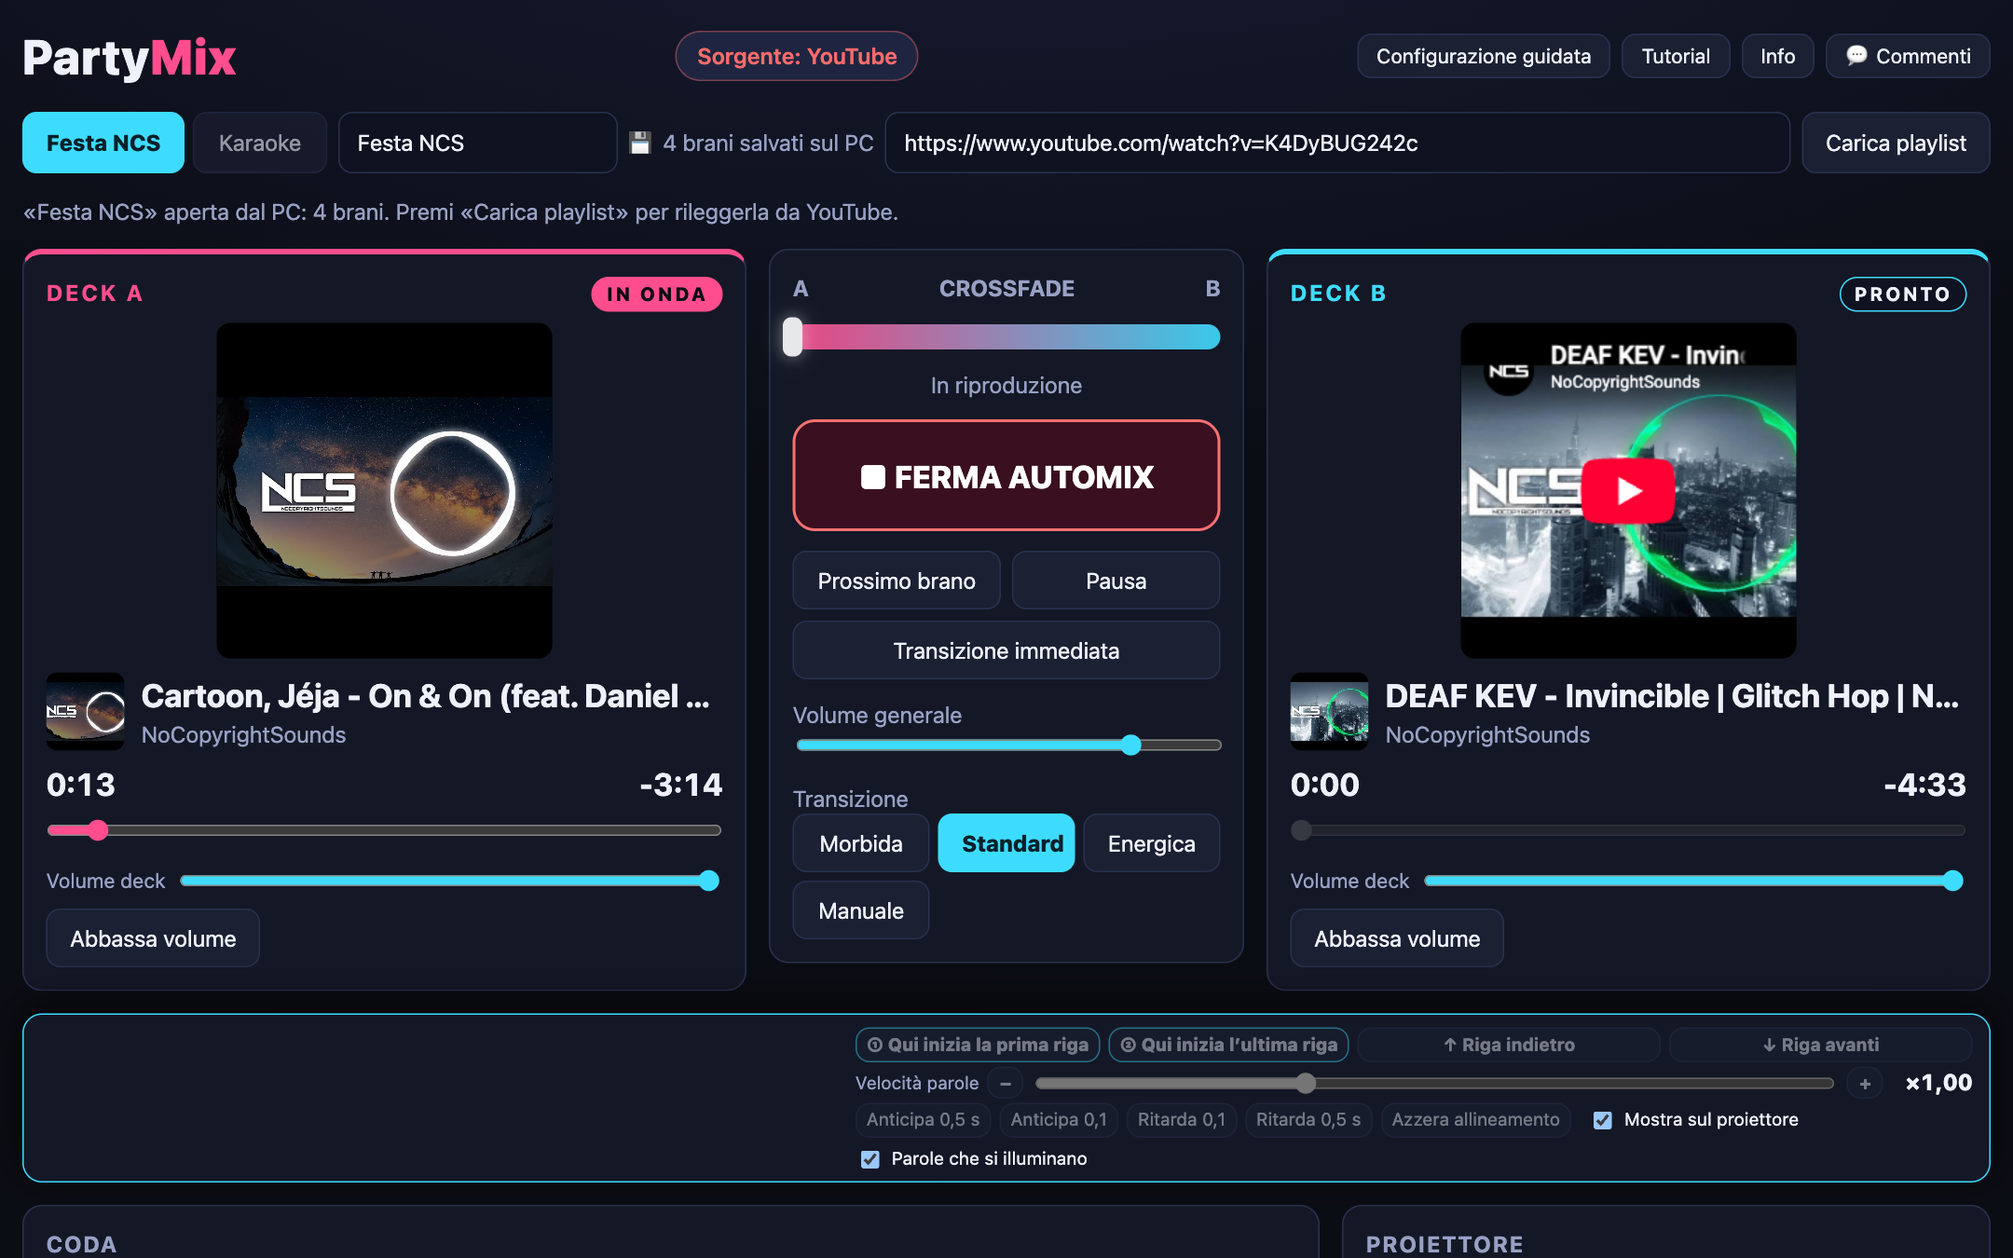
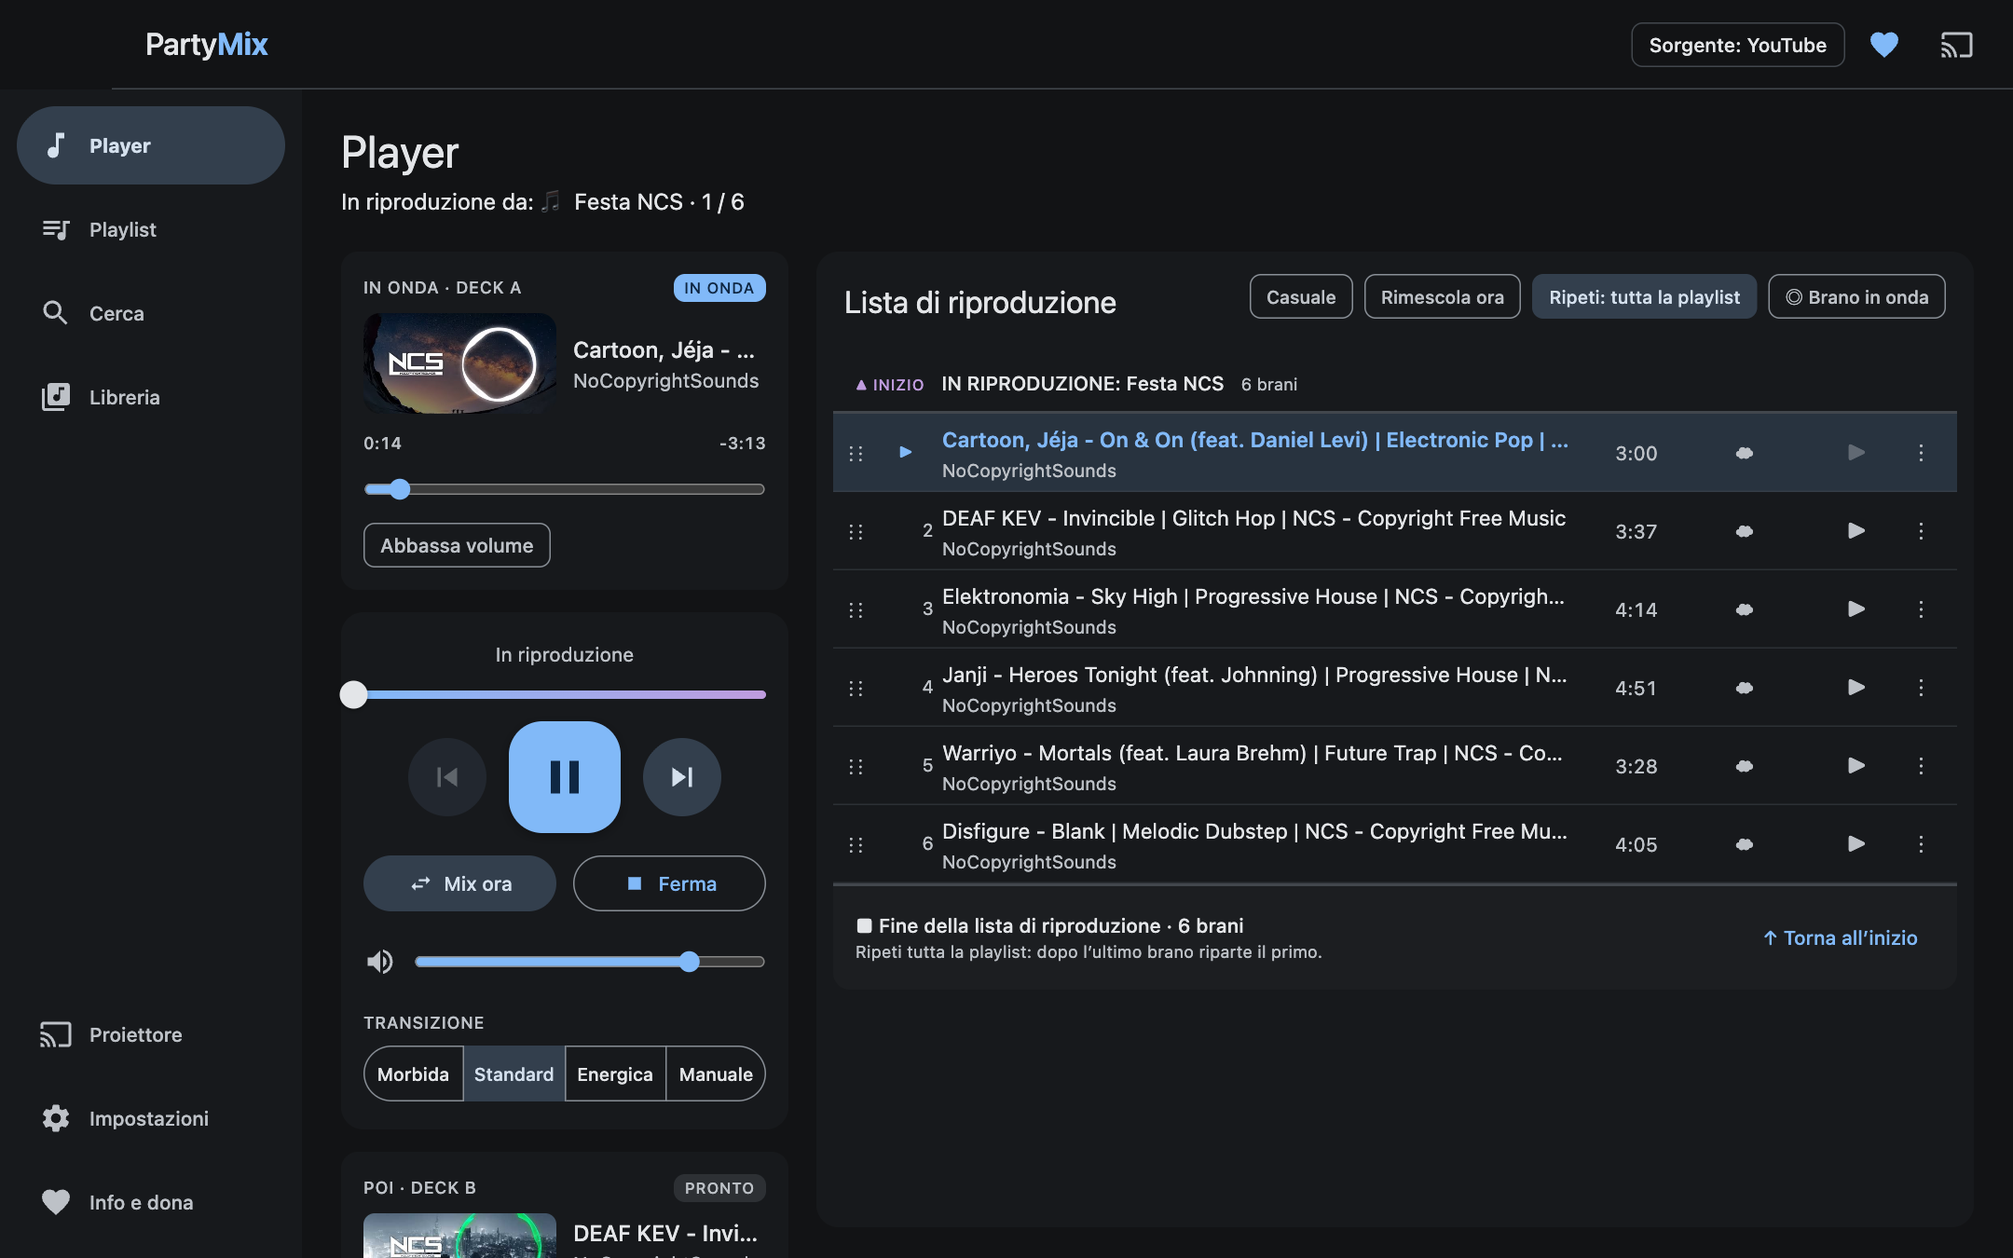
1.7.0: pannello «Proiettore e testo» sopra il Player, nuove schermate e guide
- Computer: «Proiettore» apre un pannello laterale Material sopra il Player (✕ o Esc per chiudere);
  sugli schermi larghi la pagina gli fa spazio
- Card dei deck: titoli lunghi con «…» dentro la card
- Nuove schermate della versione computer (Player, Playlist, Cerca, Libreria, Proiettore) in guida, README e sito

diff --git a/src/ui/console.ts b/src/ui/console.ts
@@ -8,7 +8,7 @@ import { UNAVAILABLE_WITH_YOUTUBE } from './unavailable';
 import { APP_VERSION, AUTHOR, PAYPAL_QR } from '../info';
 import { buildQueueList, QueueRowVM } from './queueList';
 import type { SheetItem as MenuItem } from './material';
-import { applyPhoneTheme, applySystemInsets, buildShell, materialUI, setLabel, SheetItem, withIcon } from './material';
+import { applyPhoneTheme, applySystemInsets, buildShell, icon, materialUI, setLabel, SheetItem, withIcon } from './material';
 
 export type Actions = {
   loadPlaylist(text: string): void;
@@ -341,7 +341,9 @@ export function buildConsole(root: HTMLElement, a: Actions, opts: { hasMusic?: b
   }
   /** Computer: the tour of the pages (each step opens its page). Set when the computer layout is built. */
   let deskTour: (() => TourStep[]) | undefined;
-  const openTutorial = () => void (md ? startTour(mdTourSteps(), (el) => shell?.reveal(el)) : deskTour ? startTour(deskTour(), (el) => shell?.reveal(el)) : startTour(tourSteps()));
+  /** Computer: «Proiettore e testo» in a side sheet over the Player (set when the computer layout is built). */
+  let projSheet: { open(): void; close(): void; toggle(): void } | undefined;
+  const openTutorial = () => void (md ? startTour(mdTourSteps(), (el) => shell?.reveal(el)) : deskTour ? startTour(deskTour(), (el) => { if (el.closest('.side-sheet')) projSheet?.open(); else { projSheet?.close(); shell?.reveal(el); } }) : startTour(tourSteps()));
   const openWizard = () => startWizard({
     loadPlaylist: (t) => a.loadPlaylist(t),
     onStatus: (fn) => { statusListeners.add(fn); fn(status.textContent ?? '', status.classList.contains('error')); return () => statusListeners.delete(fn); },
@@ -384,7 +386,7 @@ export function buildConsole(root: HTMLElement, a: Actions, opts: { hasMusic?: b
     h('button', { onClick: openTutorial }, 'Tutorial'),
     h('button', { onClick: openInfo }, 'Info'),
     h('button', { title: 'Scrivimi cosa ne pensi e cosa vorresti trovare in PartyMix', onClick: () => showFeedback() }, '💬 Commenti'));
-  const castTop = h('button', { class: 'm-icon-btn', 'aria-label': isIOSApp() ? 'Mostra il proiettore' : 'Trasmetti il proiettore alla TV', title: isIOSApp() ? 'Mostra il proiettore' : 'Trasmetti il proiettore alla TV', onClick: () => { shell?.go('proj'); void openProj(); } });
+  const castTop = h('button', { class: 'm-icon-btn', 'aria-label': isIOSApp() ? 'Mostra il proiettore' : 'Trasmetti il proiettore alla TV', title: isIOSApp() ? 'Mostra il proiettore' : 'Trasmetti il proiettore alla TV', onClick: () => { if (projSheet) projSheet.open(); else { shell?.go('proj'); void openProj(); } } });
   const helpItem = (ic: Parameters<typeof withIcon>[1], text: string, sub: string, run: () => void) =>
     h('button', { class: 'm-list-item', type: 'button', onClick: run }, withIcon(h('span', { class: 'm-lead' }), ic, true), h('span', { class: 'm-text' }, h('span', { class: 't' }, text), h('span', { class: 'm-sub' }, sub)));
   const helpPanel = h('section', { class: 'panel' }, h('h3', {}, 'Aiuto'),
@@ -533,12 +535,38 @@ export function buildConsole(root: HTMLElement, a: Actions, opts: { hasMusic?: b
         { id: 'search', label: 'Cerca', icon: 'search', body: [desk?.pages.search ?? null] },
         ...(desk?.pages.downloads ? [{ id: 'downloads', label: 'Download', icon: 'download' as const, body: [desk.pages.downloads] }] : []),
         { id: 'library', label: 'Libreria', icon: 'library', body: [desk?.pages.library ?? null] },
-        { id: 'proj', label: 'Proiettore', icon: 'cast', secondary: true, body: [ph('Proiettore e testo'), projPanel, syncBar, lyricsPanel] },
         { id: 'settings', label: 'Impostazioni', icon: 'settings', secondary: true, body: [ph('Impostazioni'), settingsGrid] },
         { id: 'about', label: 'Info e dona', icon: 'heart', secondary: true, body: [ph('Info e dona'), aboutPage] },
       ],
     });
     emptyNowRef = emptyNowDesk;
+
+    // «Proiettore e testo»: a Material side sheet from the right, over the Player (the music stays in sight and in hand).
+    // Wide screens: the page makes room for it; narrower ones: it lies over the right part. ✕ or Esc closes it.
+    const ssClose = withIcon(h('button', { class: 'm-icon-btn', 'aria-label': 'Chiudi', title: 'Chiudi (Esc)' }), 'close', true);
+    const sheetEl = h('aside', { class: 'side-sheet', role: 'complementary', 'aria-label': 'Proiettore e testo', inert: true },
+      h('div', { class: 'ss-head' }, h('h2', {}, 'Proiettore e testo'), ssClose),
+      h('div', { class: 'ss-body' }, projPanel, syncBar, lyricsPanel));
+    document.body.append(sheetEl);
+    projOpen.className = 'm-filled'; withIcon(projOpen, 'cast'); projClose.className = 'm-outlined'; withIcon(projClose, 'stop');
+    const projNav = h('button', { class: 'm-nav-item sec', type: 'button', title: 'Proiettore e testo', 'aria-expanded': 'false' },
+      h('span', { class: 'm-ind' }, icon('cast')), h('span', { class: 'm-nav-label' }, 'Proiettore'));
+    const navEl = root.querySelector('.m-nav')!;
+    navEl.insertBefore(projNav, navEl.querySelector('.m-nav-item.sec'));
+    const setOpen = (on: boolean) => {
+      sheetEl.classList.toggle('open', on);
+      sheetEl.toggleAttribute('inert', !on);
+      document.body.classList.toggle('ss-open', on);
+      projNav.classList.toggle('on', on);
+      projNav.setAttribute('aria-expanded', String(on));
+      if (on && shell?.current() !== 'now') shell?.go('now');
+    };
+    projSheet = { open: () => setOpen(true), close: () => setOpen(false), toggle: () => setOpen(!sheetEl.classList.contains('open')) };
+    projNav.addEventListener('click', () => projSheet!.toggle());
+    ssClose.addEventListener('click', () => projSheet!.close());
+    addEventListener('keydown', (e) => { if (e.key === 'Escape' && sheetEl.classList.contains('open') && !document.querySelector('.m-sheet.on, .modal, .tour-card')) projSheet!.close(); });
+    // the Player's own nav item does not look «current» while the sheet is the thing in front
+    shell.onScreen((id) => { if (id !== 'now') setOpen(false); });
   }
 
   /** ⋮ on a song of the play queue (computer): the actions that make sense for it, in its state. */

diff --git a/src/ui/desktop.css b/src/ui/desktop.css
@@ -369,3 +369,28 @@ body.md.desk .m-nav .m-nav-item.on { color: var(--md-on-secondary-container); }
   body.md.desk .m-nav .m-nav-item.on .m-nav-label { font-weight: 700; color: var(--md-on-surface); }
   body.md.desk .m-nav .m-nav-item:focus-visible .m-ind { box-shadow: 0 0 0 2px var(--md-primary); }
 }
+
+/* ===================== «Proiettore e testo»: side sheet over the Player ===================== */
+.desk .side-sheet { position: fixed; z-index: 25; top: 64px; right: 0; bottom: 0; width: min(440px, calc(100vw - var(--nav-w) - 24px));
+  display: flex; flex-direction: column; background: var(--md-surface-low); border-radius: 16px 0 0 16px;
+  box-shadow: -6px 0 24px rgb(0 0 0 / .35); transform: translateX(calc(100% + 24px)); transition: transform .25s cubic-bezier(.2, 0, 0, 1); }
+.desk .side-sheet.open { transform: none; }
+.desk .ss-head { display: flex; align-items: center; justify-content: space-between; gap: 8px; padding: 16px 12px 8px 24px; }
+.desk .ss-head h2 { margin: 0; font: 400 22px/28px Roboto, 'Google Sans', system-ui, sans-serif; }
+.desk .ss-body { flex: 1; overflow: auto; overscroll-behavior: contain; padding: 0 16px 24px; display: grid; gap: 16px; align-content: start; }
+.desk .ss-body .panel { background: var(--md-surface-c); margin: 0; }
+.desk .ss-body .syncbar { position: static; inset: auto; width: auto; max-height: none; margin: 0; border-radius: 16px; }
+.desk .ss-body .synctools .row { flex-wrap: wrap; }
+@media (min-width: 1500px) { body.desk.ss-open .m-main { margin-right: 440px; transition: margin-right .25s; } }
+@media (prefers-reduced-motion: reduce) { .desk .side-sheet { transition: none; } }
+
+.desk .ss-body .seg button { white-space: nowrap; }
+.desk .ss-body .btns { display: grid; grid-template-columns: 1fr 1fr; gap: 8px; }
+.desk .ss-body .btns button { width: 100%; }
+/* deck cards: long titles end with «…» inside the card, the seek bar stays in it */
+.desk .deck { overflow: hidden; min-width: 0; }
+.desk .deck > * { min-width: 0; max-width: 100%; }
+.desk .deck .meta > div { min-width: 0; flex: 1; }
+.desk .deck .artist { overflow: hidden; text-overflow: ellipsis; white-space: nowrap; }
+.desk .deck input.seek { width: 100%; box-sizing: border-box; }
+.desk .ss-body .seg button { padding: 0 14px; }

diff --git a/docs/index.html b/docs/index.html
@@ -118,7 +118,7 @@
         <span>Scarica per Linux<small>Fedora .rpm · .deb · AppImage</small></span></a>
     </div>
     <p class="note" id="ver">Nessun account, nessuna pubblicità nell'app. Le app non sono firmate a pagamento: al primo avvio il sistema mostra un avviso, <a href="https://github.com/staracegiuseppe/partymix/blob/main/docs/INSTALLAZIONE.md">ecco come procedere</a>.</p>
-    <div class="shot"><img src="img/console.png" alt="La console di PartyMix con due deck, il crossfade e il testo" width="2160" height="1350"></div>
+    <div class="shot"><img src="img/console.png" alt="PartyMix sul computer: la pagina Player con i comandi, i due deck e la lista di riproduzione" width="2160" height="1350"></div>
   </div>
 
   <section id="funzioni">

diff --git a/docs/GUIDA.md b/docs/GUIDA.md
@@ -10,7 +10,7 @@
   <a href="#-sostieni-partymix">💜 Sostieni il progetto</a>
 </p>
 
-<p align="center"><img src="img/console.png" alt="PartyMix sul computer: due deck, crossfade e testo da cantare" width="860"></p>
+<p align="center"><img src="img/console.png" alt="PartyMix sul computer: la pagina Player con ⏯, i due deck e la lista di riproduzione" width="860"></p>
 
 <p align="center">
   <img src="img/android-now.png" alt="PartyMix su Android, tema scuro" width="200">
@@ -54,7 +54,7 @@ L'app è divisa in pagine, come una vera app musicale. Il **menu a sinistra** (s
 - **🔎 Cerca** — cerca una canzone su YouTube o nella tua musica: i risultati compaiono subito sotto il campo.
 - **⬇ Download** — i download in corso, in coda, completati e con errori.
 - **🎧 Libreria** — la tua musica sul computer: importati, scaricati, preferiti, artisti, album.
-- In fondo: **📺 Proiettore** (proiettore e testo da cantare), **⚙ Impostazioni** (karaoke, pubblicità, aggiornamento playlist, chiave YouTube, aiuto) e **💜 Info e dona** (crediti e donazione facoltativa con PayPal, anche dal ♥ in alto).
+- In fondo: **📺 Proiettore** (si apre come pannello a destra sopra il Player: proiettore e testo da cantare, senza lasciare la musica), **⚙ Impostazioni** (karaoke, pubblicità, aggiornamento playlist, chiave YouTube, aiuto) e **💜 Info e dona** (crediti e donazione facoltativa con PayPal, anche dal ♥ in alto).
 - I colori seguono il computer: il colore di evidenziazione scelto nelle impostazioni di sistema (Mac, Windows, Linux GNOME) e il tema chiaro o scuro.
 
 Ogni brano ha il menu **⋮** (o clic destro) con le azioni che ha senso fare in quel momento: suona adesso, suona dopo, metti in coda, aggiungi a playlist, scarica, preferiti, togli.
@@ -95,6 +95,9 @@ L'app segue lo stile Material Design e ha quattro sezioni nella barra in basso:
 Puoi tenere **tutte le playlist che vuoi**: non c'è più il limite di quattro. Le playlist che avevi già passano da sole nel nuovo elenco, con i loro nomi e brani.
 
 **Computer:** apri la pagina **📋 Playlist**.
+
+<p align="center"><img src="img/desktop-playlists.png" alt="La pagina Playlist con le schede" width="420"> <img src="img/desktop-playlist.png" alt="Una playlist aperta: inizio, brani numerati e fine" width="420"></p>
+
 - Ogni playlist è una scheda con nome, numero di brani e durata; quella che sta suonando ha il bordo colorato e «▶ In riproduzione».
 - **▶** sulla scheda la suona subito; un clic sulla scheda la apre.
 - **+ Nuova playlist**, **Cerca playlist** e il menu per ordinarle: «Ordine mio» (trascinando le schede), per nome, modificate di recente, più brani.
@@ -193,6 +196,8 @@ Sul computer funzionano anche i tasti rapidi:
 
 **Usare un tuo file.** Senza yt-dlp, «Rendi offline con un tuo file…» nel menu ⋮ ti fa scegliere un tuo file audio di quel brano. «Elimina download» toglie solo il file: il brano resta nelle playlist.
 
+<p align="center"><img src="img/desktop-search.png" alt="La ricerca: i risultati compaiono sotto il campo" width="420"> <img src="img/desktop-library.png" alt="La libreria con i filtri e dove si trova ogni brano" width="420"></p>
+
 **🔎 Cerca.** Nella pagina **🔎 Cerca** scegli dove cercare, **▶ YouTube** o **🎧 La mia musica**, scrivi titolo, artista o tutti e due (per esempio «The Weeknd Blinding Lights») e premi Invio: i risultati compaiono subito sotto il campo, senza cambiare pagina.
 - Con **La mia musica** l'app cerca tra tutti i brani della libreria e di tutte le playlist (anche per nome della playlist), anche senza rete. Ogni risultato mostra, solo come informazione, **in quali playlist** si trova (📂) e **dove è il file sul PC** (💾).
 - Su YouTube vedi copertina, titolo, canale e durata; i video che non si possono riprodurre sono segnalati con il motivo.
@@ -209,7 +214,9 @@ Il proiettore è una seconda schermata, da mandare su TV o videoproiettore, che 
 - **Karaoke:** forme colorate che seguono il suono della stanza attraverso il microfono, con il testo da cantare. Il suono non viene registrato.
 - **Video YouTube:** il video del brano in onda a tutto schermo, muto e allineato alla musica. È perfetto per i balli tipo Just Dance. Il video successivo è già caricato, quindi al cambio brano lo schermo non diventa mai nero. Quando YouTube mostra una pubblicità, al suo posto restano le forme.
 
-**Computer.** Premi **Apri proiettore** e scegli lo schermo: secondo monitor, TV collegata o proiettore. Nel pannello scegli anche il microfono e la sensibilità. Su Linux il proiettore va a tutto schermo sul monitor scelto, anche con Wayland (non ancora provato su un computer vero).
+<p align="center"><img src="img/desktop-projector.png" alt="Il pannello Proiettore e testo aperto sopra il Player" width="620"></p>
+
+**Computer.** Premi **📺 Proiettore** nel menu (o l'icona 📺 in alto): si apre il pannello «Proiettore e testo» a destra, sopra il Player, così la musica resta sotto mano; si chiude con ✕ o Esc. Lì premi **Apri proiettore** e scegli lo schermo: secondo monitor, TV collegata o proiettore. Nel pannello scegli anche il microfono e la sensibilità. Su Linux il proiettore va a tutto schermo sul monitor scelto, anche con Wayland (non ancora provato su un computer vero).
 
 **Android.** Premi **Trasmetti alla TV** (oppure l'icona in alto).
 1. Si aprono le impostazioni di Android «Trasmetti» o «Schermo wireless».

diff --git a/README.md b/README.md
@@ -13,7 +13,9 @@ Incolli una playlist YouTube o Spotify, premi un tasto e la musica va avanti da 
   <a href="#commenti-e-suggerimenti">Commenti e suggerimenti</a>
 </p>
 
-<p align="center"><img src="docs/img/console.png" alt="La console di PartyMix: due deck, crossfade e testo sincronizzato" width="900"></p>
+<p align="center"><img src="docs/img/console.png" alt="PartyMix sul computer: la pagina Player con i comandi, i due deck e la lista di riproduzione" width="900"></p>
+
+<p align="center"><img src="docs/img/desktop-playlists.png" alt="Le playlist" width="290"> <img src="docs/img/desktop-search.png" alt="La ricerca, con i risultati sotto il campo" width="290"> <img src="docs/img/desktop-projector.png" alt="Il pannello Proiettore e testo sopra il Player" width="290"></p>
 
 ## Perché PartyMix
 
@@ -22,7 +24,7 @@ Incolli una playlist YouTube o Spotify, premi un tasto e la musica va avanti da 
 - **Tutte le playlist che vuoi, salvate sul dispositivo.** Nessun limite (prima erano quattro): crea, rinomina, duplica, elimina, cerca e ordina le playlist dalla barra laterale; si aprono all'istante anche senza rileggere YouTube. Togli i brani che non vuoi, cambia l'ordine: la lista resta così.
 - **Libreria musicale locale (computer).** **+ Aggiungi musica locale**: importa MP3 (anche tanti insieme o un'intera cartella) che finiscono in *Musica › PartyMix Library/Artista/Brano.mp3*. Si suonano **anche senza rete**. Sezioni Tutte, Scaricate, Preferiti, Artisti, Album, Playlist; **🔎 Cerca nella libreria** trova un brano tra migliaia e ti dice in quali playlist e in quale cartella del PC si trova.
 - **🔎 Cerca su YouTube (computer).** Scrivi titolo e/o artista: risultati con copertina, canale e durata; **▶ Riproduci**, **⤵ In coda**, **⏭ subito dopo**, **＋ Playlist**, **＋ Libreria**.
-- **Nuova interfaccia per computer (Material Design 3).** Menu a sinistra con pagine separate: ▶ Player (deck, mixer e lista di riproduzione con «In riproduzione da: Festa · 3 / 124»), 📋 Playlist, 🔎 Cerca (risultati subito sotto il campo), ⬇ Download, 🎧 Libreria, 📺 Proiettore, ⚙ Impostazioni. Le liste hanno un inizio e una fine ben visibili e restano fluide anche con 10.000 brani; il ritorno al primo brano è la funzione «Ripeti» del player. L'app per smartphone resta quella di sempre.
+- **Nuova interfaccia per computer (Material Design 3).** Menu a sinistra con pagine separate: ▶ Player (deck, mixer e lista di riproduzione con «In riproduzione da: Festa · 3 / 124»), 📋 Playlist, 🔎 Cerca (risultati subito sotto il campo), ⬇ Download, 🎧 Libreria, ⚙ Impostazioni, 💜 Info e dona; 📺 Proiettore e testo si apre come pannello laterale sopra il Player. I colori seguono il colore di evidenziazione e il tema chiaro/scuro del computer. Le liste hanno un inizio e una fine ben visibili e restano fluide anche con 10.000 brani; il ritorno al primo brano è la funzione «Ripeti» del player. L'app per smartphone resta quella di sempre.
 - **Karaoke automatico.** In sottofondo cerca i testi di tutta la playlist e li mostra a tempo, con le parole che si illuminano (o senza, se preferisci).
 - **Proiettore.** Sul secondo schermo, a tutto schermo: forme che seguono la musica dal microfono con il testo da cantare, oppure il **video YouTube in grande** (perfetto per i balli tipo Just Dance), muto, allineato alla musica e senza pubblicità sullo schermo. Il video successivo viene precaricato: niente buchi neri tra un brano e l'altro.
 - **Android in stile Material Design.** Sul telefono l'app è pensata per il tocco: quattro sezioni nella barra in basso (In onda, Playlist, Proiettore, Altro), i colori del tuo telefono (tema chiaro o scuro e Material You), le azioni su ogni brano in un pannello dal basso.
